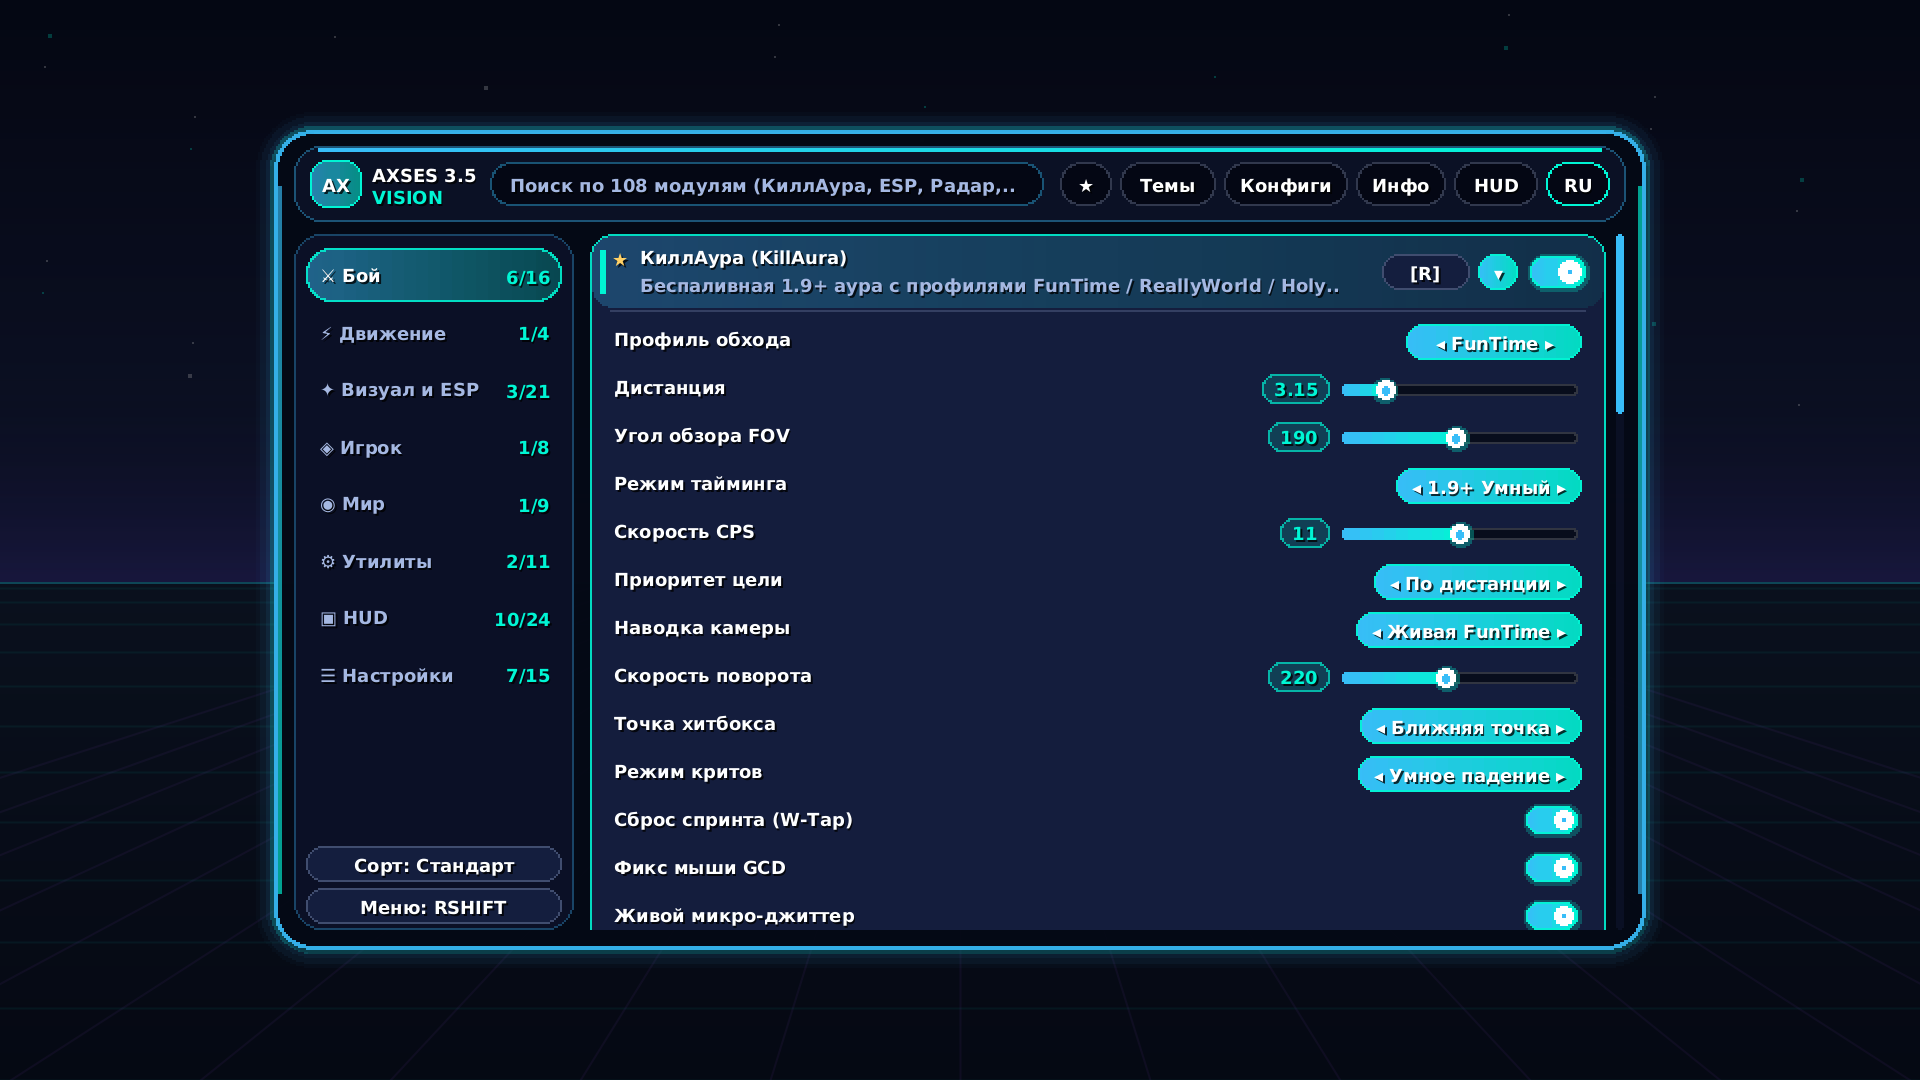
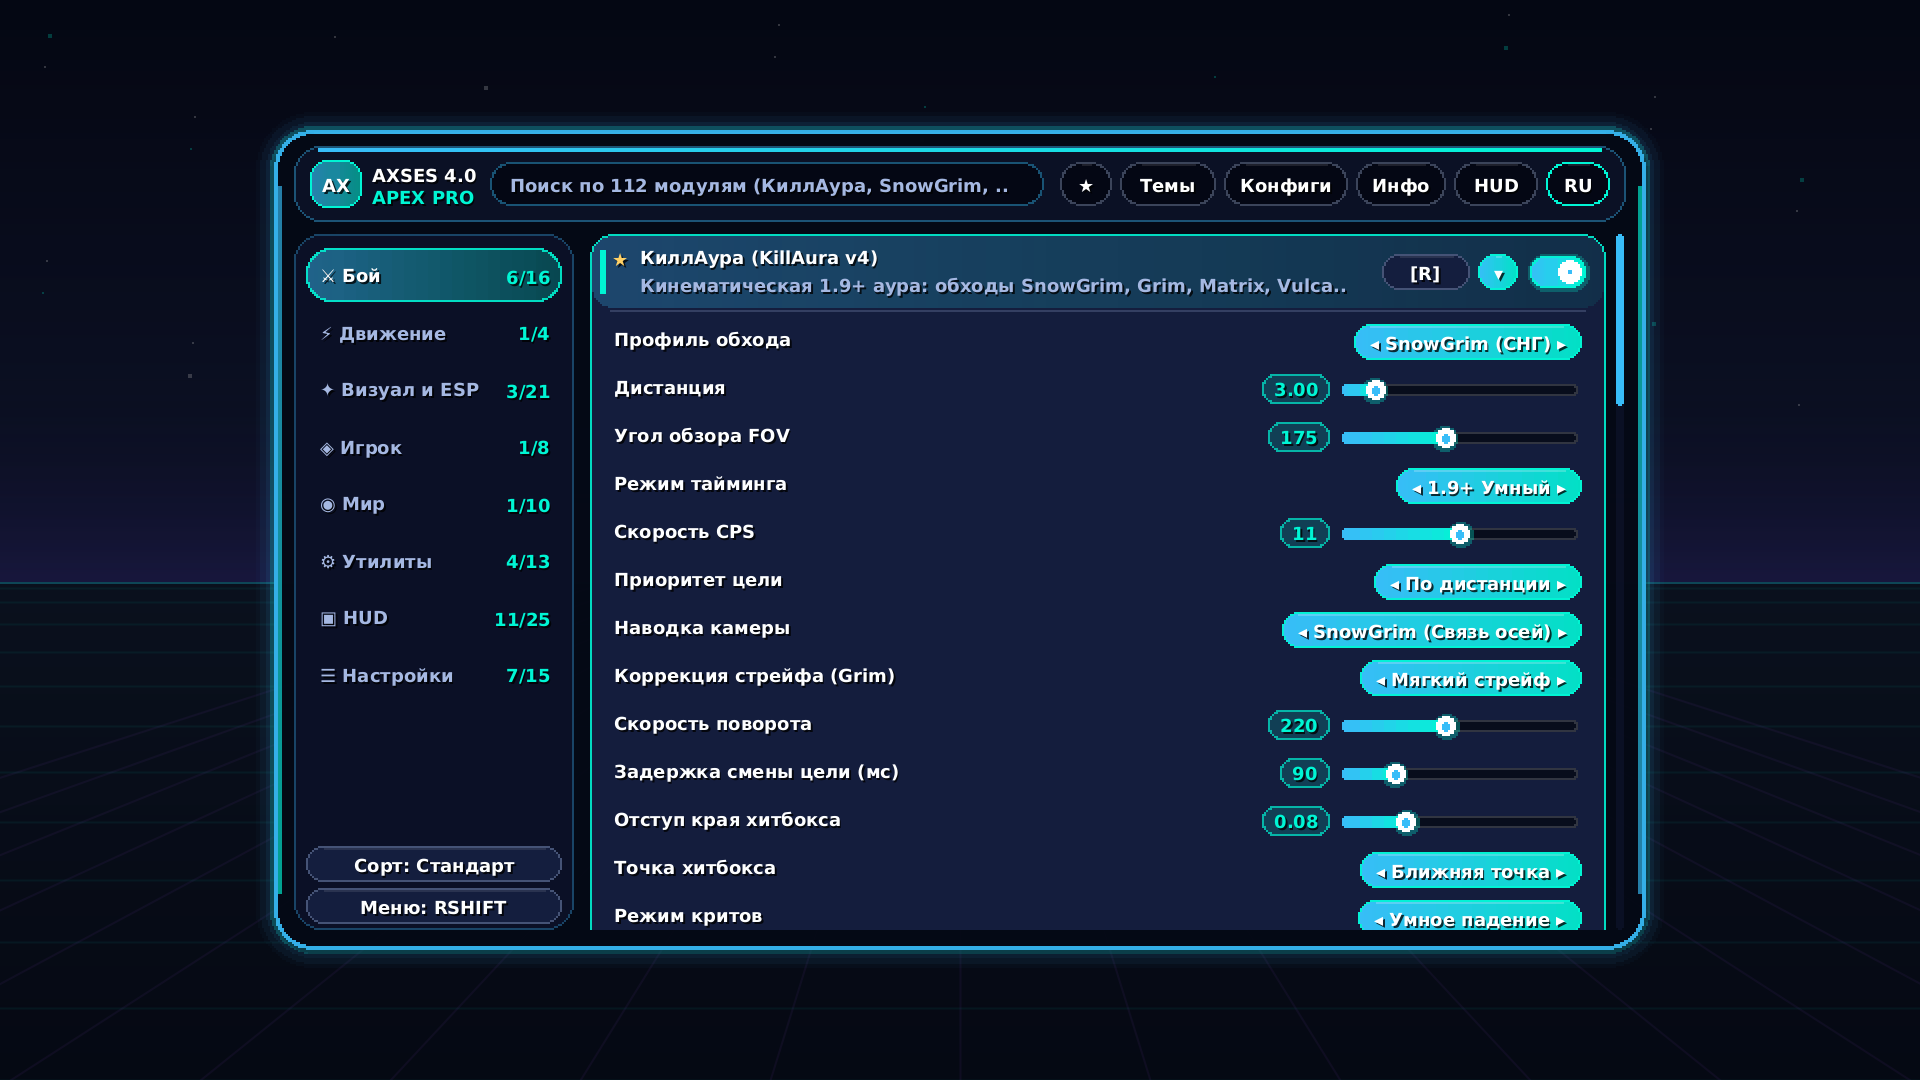
docs(release): publish AXSESCLIENT v4.0.0 APEX ARCHITECT verified screenshots, manifest & SHA-256 report [skip ci]

diff --git a/README.md b/README.md
@@ -1,28 +1,28 @@
-# AXSESCLIENT v3.5.0 — CELESTIAL VISION
+# AXSESCLIENT v4.0.0 — APEX ARCHITECT
 
-**Нативный Windows 10/11 x64 лаунчер (`AXSESCLIENT.exe`) и Fabric-клиент для Minecraft `1.16.5`, `1.21.4` и `1.21.11` (Скруглённое ClickGUI на Правый Shift • 108 реальных модулей • 14 тем • Русский / English).**
+**Нативный Windows 10/11 x64 лаунчер (`AXSESCLIENT.exe`), менеджер популярных модов (`Sodium` / `Lithium` / `Baritone`) и Fabric-клиент для Minecraft `1.16.5`, `1.21.4` и `1.21.11` (112 рабочих модулей • Перемещение HUD в Чате • Плеер Spotify • КиллАура v4 `SnowGrim`/`Grim`/`Matrix` • 14 тем • RU/EN).**
 
-![AXSESCLIENT v3.5.0 Showcase](AXSESCLIENT-RELEASE/screenshots/axsesclient-v3.5-showcase.png)
+![AXSESCLIENT v4.0.0 Showcase](AXSESCLIENT-RELEASE/screenshots/axsesclient-v4.0-showcase.png)
 
-## Скачать готовый релиз (`axsesclient-v3.5.0`)
-🔗 **GitHub Release:** https://github.com/egorbelovziiik-design/WinLauncher/releases/tag/axsesclient-v3.5.0
+## Скачать готовый релиз (`axsesclient-v4.0.0`)
+🔗 **GitHub Release:** https://github.com/egorbelovziiik-design/WinLauncher/releases/tag/axsesclient-v4.0.0
 
-| Файл | Размер | Назначение |
-|---|---|---|
-| `AXSESCLIENT-Setup.exe` | `41,826,880` байт | Официальный установщик Windows 10/11 x64 (Inno Setup 6, безопасное обновление без удаления миров и скриншотов) |
-| `AXSESCLIENT.exe` | `45,576,969` байт | Автономный нативный лаунчер C# / .NET 8 / Avalonia 11 (прямой запуск игры, честное выделение `-Xmx` ОЗУ, авто-установка Java 8 и Java 21) |
-| `AXSESCLIENT-1.16.5.jar` | `481,493` байт | Fabric-мод клиента для **Minecraft 1.16.5** (Java 8 bytecode `v52`) |
-| `AXSESCLIENT-1.21.4.jar` | `488,733` байт | Fabric-мод клиента для **Minecraft 1.21.4** (Java 21 bytecode `v65`) |
-| `AXSESCLIENT-1.21.11.jar` | `490,191` байт | Fabric-мод клиента для **Minecraft 1.21.11** (Java 21 bytecode `v65`) |
+| Файл | Размер | SHA-256 | Назначение |
+|---|---|---|---|
[5 lines of base64/hex data omitted]
 
-## Ключевые обновления `v3.5.0 (CELESTIAL VISION)`
-- **Скруглённое меню на Правый Shift (`AXSES 3.5 • VISION`, `686×410`, радиус `20px`)**:
-  - Настоящие круговые скругления углов и боков (`drawRoundedOutline` с попиксельными дугами без ступенчатых квадратных углов), светящиеся боковые неоновые грани, парящая шапка (`14px`) и боковая панель (`14px`), капсульные переключатели, ползунки и строка поиска.
-  - **14 встроенных тем оформления** в удобной 3-колоночной сетке, включая новые **`CELESTIAL VISION`** и **`EMERALD AURORA`**.
-- **108 рабочих модулей — улучшены все категории и добавлены 6 новых функций**:
-  - **Мини-Радар 2D (`2D PvP Radar`)** — вращающийся скруглённый радар ближайших игроков и целей с компасом `С` и конусом обзора.
-  - **Счётчик тотемов (`Totem Counter`)** и **Геплы и перлы (`Gapple & Pearl Tracker`)** — живой подсчёт расходников в инвентаре и левой руке с уведомлением о сносе тотема.
-  - **Индикатор урона 3D (`Damage Indicators 3D`)** — всплывающие в 3D-пространстве цифры урона и исцеления (`-3.6 ❤`).
-  - **Тревога низкого ХП (`Low HP Alert`)** и **Страж смерти (`Auto Death Guard`)**.
-  - **КиллАура v3.5 (`FunTime` / `ReallyWorld` / `HolyWorld`)** с вращающимися **3D Сферами душ**, двойным кольцом цели и индикатором крита **`⚡КРИТ`**.
-  - **ESP Подсветка v3.5** с новым режимом **`Неон-капсула`**, полосками здоровья и прочности брони, а также **3D-маяками меток и точки смерти**.
+## Ключевые обновления `v4.0.0 (APEX ARCHITECT)`
+- **Свободное перемещение HUD прямо в Чате (`T`)**:
+  - Зажмите **ЛКМ** на любом HUD-виджете прямо при открытом чате, чтобы переместить его с магнитной центровкой по осям и автосохранением позиции; **ПКМ** закрепляет/разблокирует виджет.
+  - Интерактивные кнопки плеера **Spotify** и **Baritone** кликабельны прямо из открытого чата и редактора HUD без открытия лишних меню.
+- **Живой плеер Музыки и Spotify (`spotify_music_hud`)**:
+  - Асинхронный мост `MediaSessionBridge` определяет активный процесс/трек **Spotify** на ПК, **автоматически останавливает фоновую музыку Minecraft** (`SoundManager` / `MusicManager`), чтобы треки не накладывались друг на друга, и предоставляет тактильные кнопки **`> Продолжить`**, **`|| Пауза`**, **`■ Стоп`**, **`<<`** и **`>>`**.
+- **КиллАура v4 (`SnowGrim` • `Grim` • `Matrix` • `Vulcan` • `Intave` • `Polar` • `FunTime` / `RW` / `HW`)**:
+  - Новая кинематика связанных осей **Lissajous (`SnowGrim Связь осей`)**, квантование шага мыши **GCD**, задержка переключения целей (`switch_delay`), отступ края хитбокса (`hitbox_margin`) и режимы коррекции стрейфа под современные античиты.
+- **Хаб популярных модов FPS и ИИ Baritone в лаунчере + в игре**:
+  - Новая вкладка **«🚀 Моды и Baritone»** в `AXSESCLIENT.exe` скачивает напрямую с официального API Modrinth v2 и релизов Baritone (с проверкой **SHA-512 / SHA-1** и заголовка JAR) **12 лучших модов**: **Baritone AI Autopilot**, **Sodium**, **Lithium**, **FerriteCore**, **ImmediatelyFast**, **EntityCulling**, **Iris Shaders**, **ModernFix**, **Dynamic FPS**, **Mod Menu**, **Zoomify** и **Fabric API**, включая пакетную кнопку **«Установить пакет Макс. FPS + Baritone»**.
+  - В клиенте добавлены модули **«Баритон Автопилот»** (`#mine`, `#goto`, `#stop` + 3D неоновый маршрут к цели) и **«Турбо Оптимизация FPS»** с детектором активной связки `[Sodium+Lithium+Ferrite]`.

diff --git a/AXSESCLIENT/documentation/BUILD_REPORT.md b/AXSESCLIENT/documentation/BUILD_REPORT.md
@@ -1,29 +1,31 @@
-# AXSESCLIENT v3.5.0 (CELESTIAL VISION) — Отчёт о сборке и верификации
+# AXSESCLIENT v4.0.0 (APEX ARCHITECT) — Отчёт о сборке и верификации
 
-- **Версия релиза**: `v3.5.0` (`axsesclient-v3.5.0`)
-- **Проверенный CI Run**: `42254382726` (GitHub Actions Linux Xvfb + Windows Server x64 + GitHub Release)
-- **Синхронизированных модулей**: `108` (`КиллАура v3.5 + 3D Сферы душ`, `ESP Неон-капсула`, `Мини-Радар 2D`, `Счётчик тотемов`, `Геплы и перлы`, `Индикатор урона 3D`, `Тревога низкого ХП`, `Страж смерти`, `3D Маяки меток`, `Таргет HUD v3.5` и др.)
+- **Версия релиза**: `v4.0.0` (`axsesclient-v4.0.0`)
+- **Проверенный CI Run**: `42286031798` (GitHub Actions Linux Xvfb + Windows Server x64 + GitHub Release)
+- **Синхронизированных модулей**: `112` (`Перемещение HUD в Чате`, `Музыка и Spotify Плеер`, `Баритон Автопилот`, `Турбо Оптимизация FPS`, `КиллАура v4: SnowGrim / Grim / Matrix / Vulcan / Intave / Polar / FunTime / RW / HW`, `ESP Неон-капсула`, `Мини-Радар 2D`, `Счётчик тотемов`, `Геплы и перлы`, `Индикатор урона 3D`, `Таргет HUD` и др.)
 - **Встроенных тем**: `14` (`CELESTIAL VISION`, `EMERALD AURORA`, `HYPERION AURORA`, `AXSES DARK` и др. + пользовательские JSON-темы)
+- **Каталог модов лаунчера**: `12` проверенных модов (`Baritone`, `Sodium`, `Lithium`, `FerriteCore`, `ImmediatelyFast`, `EntityCulling`, `Iris`, `ModernFix`, `Dynamic FPS`, `Mod Menu`, `Zoomify`, `Fabric API`) с криптографической верификацией SHA-512 / SHA-1.
 
 ## Собранные и проверенные артефакты (`SHA-256`)
 
 | Файл | Размер | SHA-256 |
 | --- | --- | --- |
[10 lines of base64/hex data omitted]
 
 ## Результаты автоматического E2E-тестирования
 
-1. **`client-common` JUnit 5**: PASS — проверены все **108 модулей** и **14 тем**, круговая геометрия `drawRoundedOutline` / `fillRoundedHorizontalGradient`, скруглённое ClickGUI (`Right Shift`), `KillAura v3.5` (`FunTime` / `ReallyWorld` / `HolyWorld` + `3D Soul Orbs`), `Vision Capsule ESP`, `2D PvP Radar`, `Totem Counter`, `Gapple Tracker`, `3D Damage Indicators`, плавный скролл и русский поиск.
-2. **Реальный E2E-запуск Minecraft `1.16.5` (Java 8 `1.8.0_512`)**: PASS (`mixinAudit: PASS`, `modulesRegistered: 108`, `themesRegistered: 14`, байткод `Major 52`).
-3. **Реальный E2E-запуск Minecraft `1.21.4` (Java 21 `21.0.13`)**: PASS (`mixinAudit: PASS`, `modulesRegistered: 108`, `themesRegistered: 14`, байткод `Major 65`).
-4. **Реальный E2E-запуск Minecraft `1.21.11` (Java 21 `21.0.13`)**: PASS (`mixinAudit: PASS`, `modulesRegistered: 108`, `themesRegistered: 14`, байткод `Major 65`).
-5. **Windows x64 `AXSESCLIENT.exe` (`--selftest` + Avalonia UI)**: PASS (`DPAPI=dpapi`, `modules=108`, `themes=14`, синхронизация `options.txt -> lang:ru_ru`, отрендерены все 11 страниц интерфейса).
+1. **`client-common` JUnit 5**: PASS — проверены все **112 модулей** и **14 тем**, перетаскивание HUD в открытом Чате с магнитной сеткой, клики по кнопкам `Стоп` / `Продолжить` на виджете Spotify, авто-остановка ванильной музыки Minecraft (`stopVanillaMusic`), команды `#goto` / `#stop` Baritone, а также профили `KillAura v4` (`SnowGrim`, `Grim`, `Matrix`, `Vulcan`, `Intave`, `Polar`, `FunTime`, `ReallyWorld`, `HolyWorld`).
+2. **Реальный E2E-запуск Minecraft `1.16.5` (Java 8 `1.8.0_512`)**: PASS (`mixinAudit: PASS`, `modulesRegistered: 112`, `themesRegistered: 14`, байткод `Major 52`).
+3. **Реальный E2E-запуск Minecraft `1.21.4` (Java 21 `21.0.13`)**: PASS (`mixinAudit: PASS`, `modulesRegistered: 112`, `themesRegistered: 14`, байткод `Major 65`).
+4. **Реальный E2E-запуск Minecraft `1.21.11` (Java 21 `21.0.13`)**: PASS (`mixinAudit: PASS`, `modulesRegistered: 112`, `themesRegistered: 14`, байткод `Major 65`).
+5. **Windows x64 `AXSESCLIENT.exe` (`--selftest` + Avalonia UI + `FabricModInstallerService` xUnit)**: PASS (`DPAPI=dpapi`, `modules=112`, `themes=14`, проверка установки/переключения `.jar`/`.jar.disabled`/удаления модов, отрендерены все **12 страниц** лаунчера включая `launcher-modshub.png`).
 6. **Windows x64 `AXSESCLIENT-Setup.exe` (Inno Setup 6)**: PASS — проверены тихая установка, запуск установленного лаунчера и безопасное удаление с полным сохранением пользовательских миров (`saves/`).
 
 ## Честные ограничения
 
-- Все боевые, визуальные и игровые модули работают исключительно на стороне клиента через стандартное состояние и точную математику углов/хитбоксов (без эксплойтов пакетов, спуфинга протокола или обхода лицензии Mojang). На внешних серверах используйте легитные профили (`Legit Ghost` / `FunTime`) в соответствии с правилами площадки.
+- Все боевые, навигационные и визуальные модули работают исключительно на стороне клиента через стандартное состояние и точную математику углов/хитбоксов (без эксплойтов пакетов, спуфинга протокола или обхода лицензии Mojang).
+- Для версии `1.21.11`, если внешний релиз Baritone под конкретный патч ещё не опубликован апстримом, клиент автоматически использует встроенный ИИ-автопилот и 3D-маршрутизатор `AXSES Baritone`.
